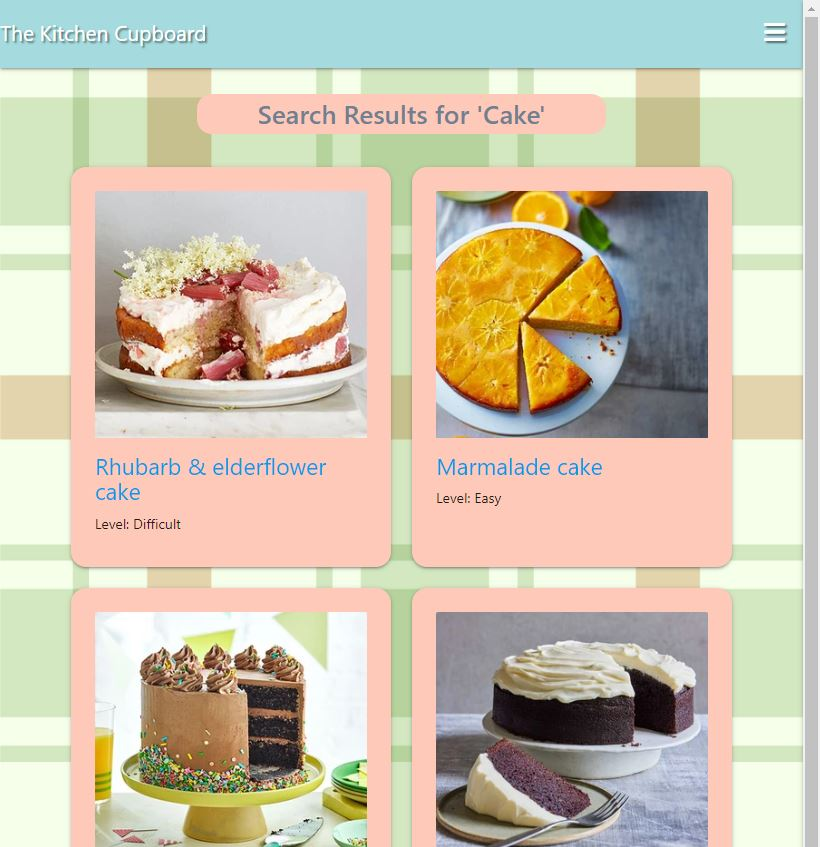
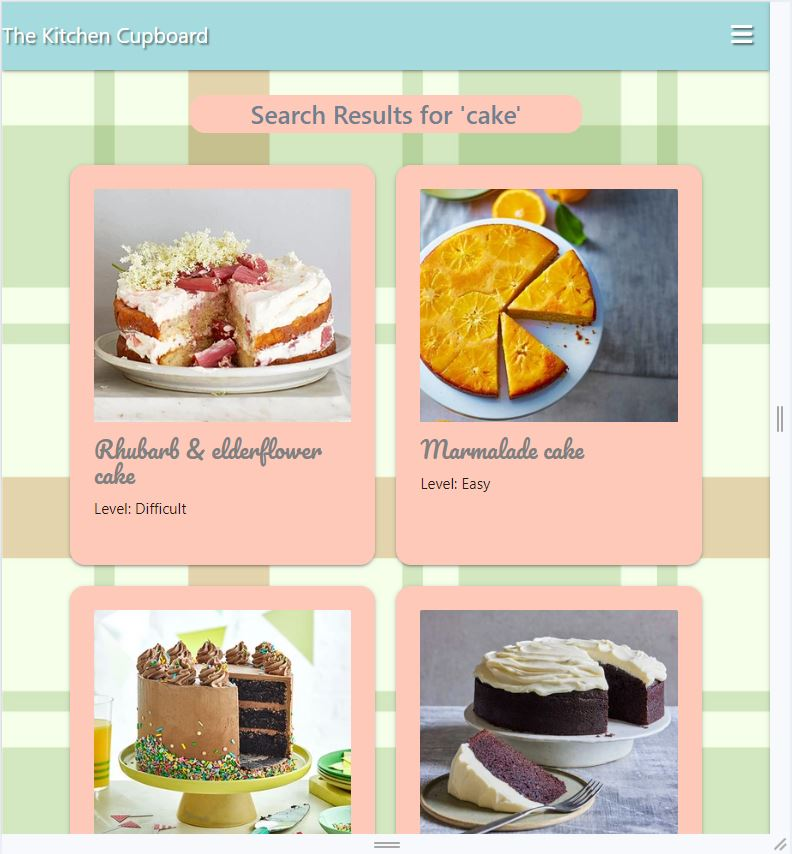
ADD updated screenshots to readme

diff --git a/README.md b/README.md
@@ -201,7 +201,11 @@ The website is live [Here](https://the-kitchen-cupboard-19573f40a32b.herokuapp.c
   The keyword search interrogates two fields in my database, the name and ingredients. This picks up any recipe that uses the keyword as an ingredient within it even though it may not be specifically mentioned in the title.    
   The search results are returned and displayed using Materialize's card component. The class rule dictates that the results are displayed 4 side-by-side on desktops, 2 side-by-side on tablets and stacked singly on mobiles.  
     
-  ![Mobile view](/documentation/uxresults_mobile.jpg =30%x) ![Tablet view](/documentation/uxresults_ipad.jpg =30%x) ![Desktop view](/documentation/uxresults_desktop.jpg =30%x)  
+  ![Mobile view](/documentation/uxresults_mobile.jpg)
+  
+  ![Tablet view](/documentation/uxresults_ipad.jpg)   
+  
+  ![Desktop view](/documentation/uxresults_desktop.jpg)  
 
   The results cards only display the recipe image, name and difficulty level not the full details. This should be enough for the user to decide whether they would like to read further and the image and title are a link that will then open the individual recipe up on a separate page.    
   The full recipe details are then displayed - Image, name, difficulty level, ingredients, method and created by. As users are also allowed to upload their own recipes some of the fields may have been ommitted and these will not then be displayed, if there has been no image uploaded a placeholder image will be displayed instead to preserve the uniformity of the display style.
